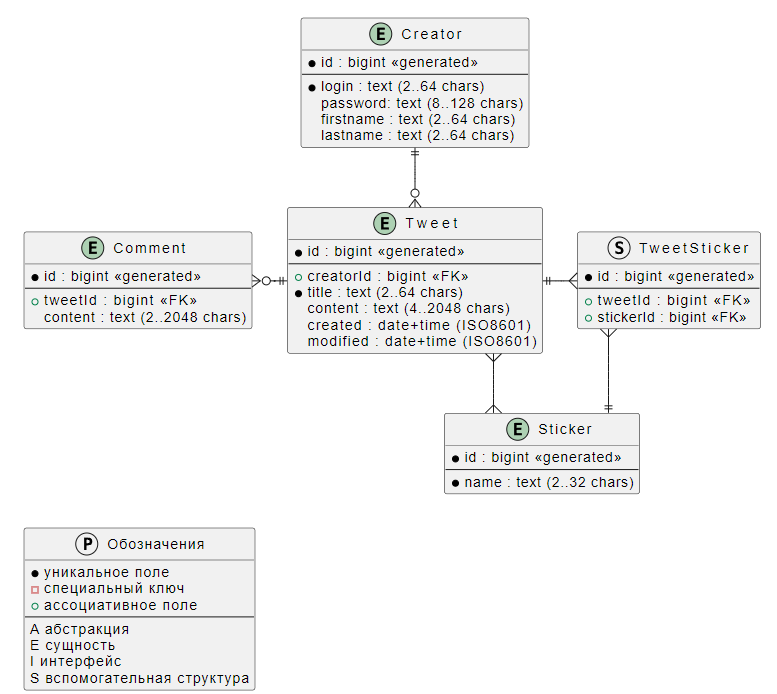
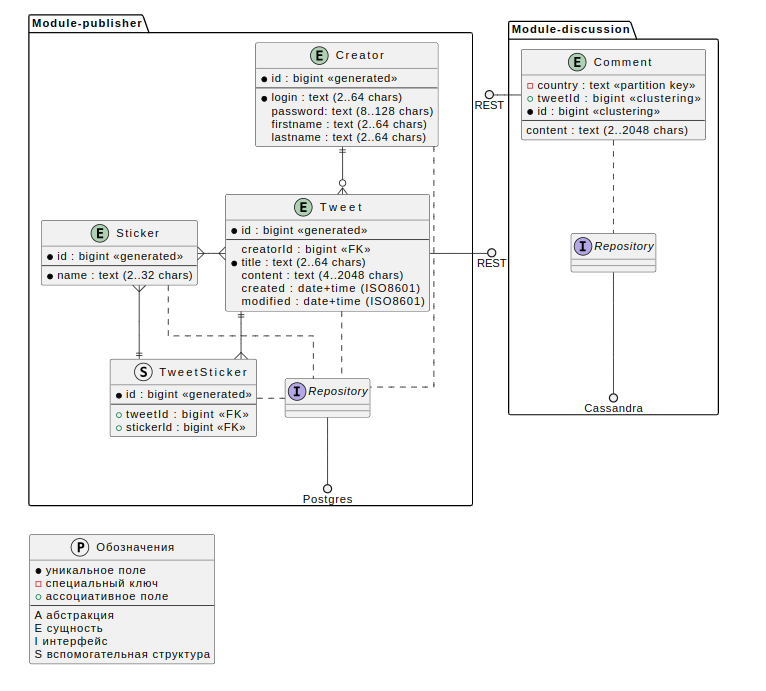
change readme

diff --git a/README.md b/README.md
@@ -8,6 +8,7 @@ The goal of this project is to develop the service from a monolith into microser
 - Java 21
 - Gradle
 - PostgreSQL
+- Cassandra
 - Liquibase
 - Testcontainers
 - Mapstruct
@@ -15,7 +16,7 @@ The goal of this project is to develop the service from a monolith into microser
 
 ## Goals
 - [x] Create a monolith service for storing messages on PostgreSQL
-- [ ] Split the monolith into microservices on PostgreSQL and Cassandra
+- [x] Split the monolith into microservices on PostgreSQL and Cassandra
 - [ ] Add message broker Kafka for interaction between services
 - [ ] Add Redis for caching
 - [ ] Add docker-compose for running services
